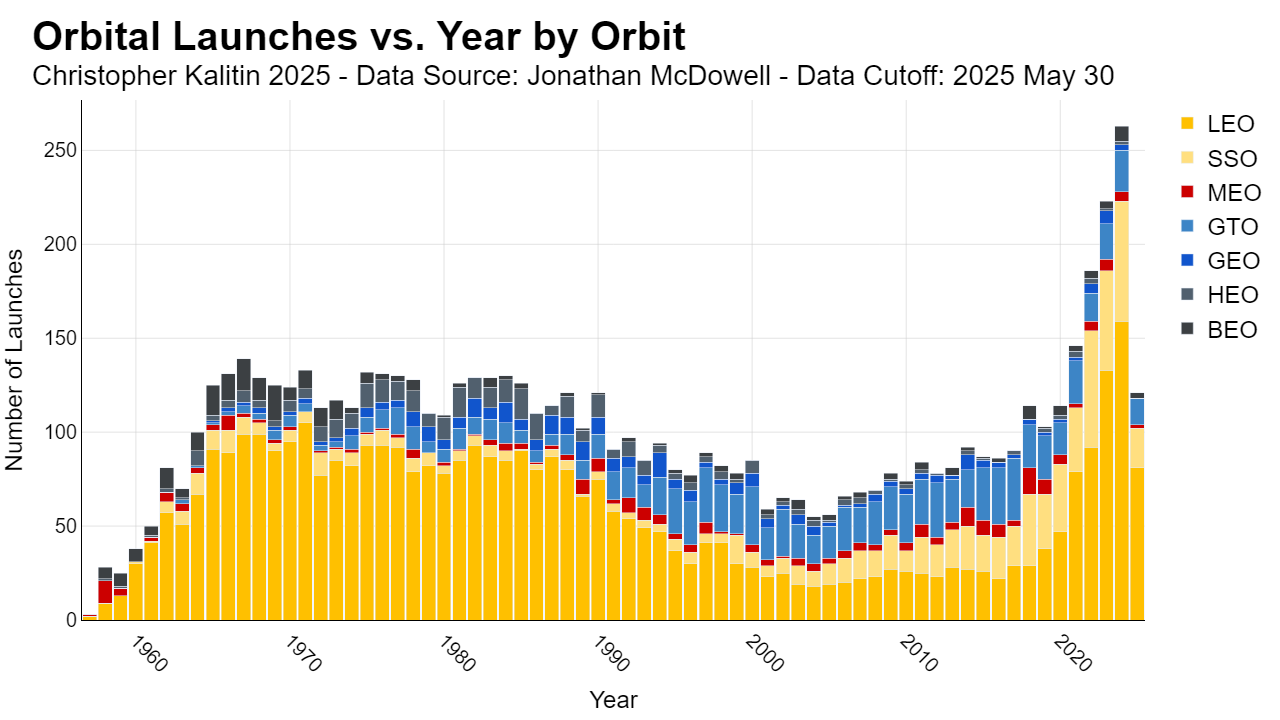
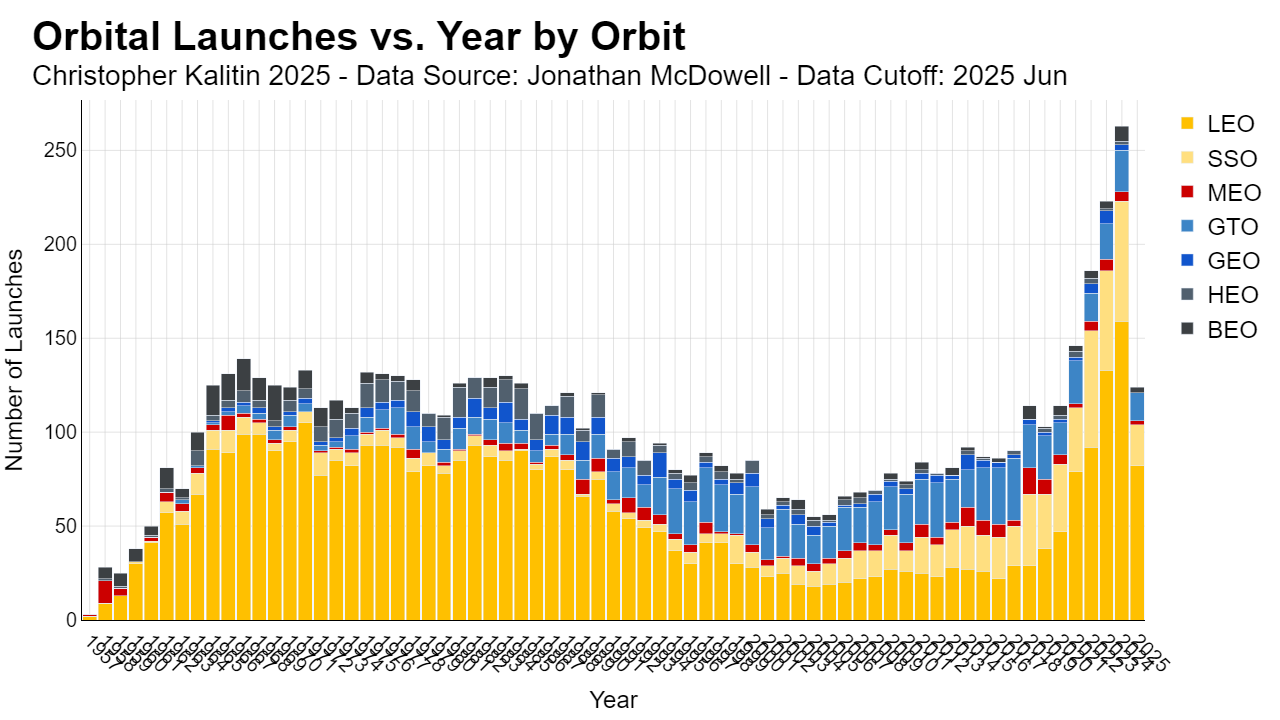
general launch payload type charts

diff --git a/src/chart_utils.py b/src/chart_utils.py
@@ -19,6 +19,16 @@ class ChartUtils:
         'BEO': '#3c4043'
     }
     
+    general_launch_payload_type_color_map = {
+        'Starlink': "#005eff",
+        'Commercial': "#fbbc04",
+        'Chinese Commercial': '#ffd966',
+        'Government': "#008F11",
+        'Eastern Government': "#2b700d",
+        'Military': "#ff0000",
+        'Eastern Military': '#cc0000'
+    }
+    
     def pivot_dataframe(df, index_col, column_col, value_col):
         """
         Index_col is used as the row index of the pivoted dataframe.
@@ -81,7 +91,7 @@ class ChartUtils:
             binned = binned.value_counts().reindex(labels)
         return binned
  
-    def bin_dataset_into_dictionary_by_filter_function(dataset, filter_function, filter_function_parameters, value_col, bins, bin_labels, keys=None, count_values=True, bin_column=None):
+    def bin_dataset_into_dictionary_by_filter_function(dataset, filter_function, filter_function_parameters_list, value_col, bins, bin_labels, keys=None, count_values=True, bin_column=None, filter_function_additional_parameter=None):
         """Filters a dataset by a given filter function and returns a dataframe for each filter function parameter.
         
         Eg. You can filter by orbit and get a dictionary of dataframes, one for each orbit.
@@ -91,7 +101,7 @@ class ChartUtils:
         Args:
             dataset (launch or satcat): Launch or Satcat dataset (notice this isn't the McDowellDataset, so use dataset.launch or dataset.satcat)
             filter_function (mda.Filters...): Filter function to be applied
-            filter_function_parameters (list): List of paramters, eg. ['LEO', 'SSO, ... , 'BEO'] for orbits or ['Falcon9', 'Electron'] for launch vehicles.
+            filter_function_parameters_list (list): List of paramters, eg. ['LEO', 'SSO, ... , 'BEO'] for orbits or ['Falcon9', 'Electron'] for launch vehicles.
             value_col (str): Column to be used for binning, eg. 'Payload_Mass'.
             bins (list int): List of bin edges, eg. [0, 1000, 2000, 3000] for payload mass bins.
             bin_labels (list str): List of bin labels, eg. ['0-1T', '1-2T', '2-3T'] for payload mass bins.
@@ -104,11 +114,14 @@ class ChartUtils:
         """
 
         if keys is None:
-            keys = filter_function_parameters
+            keys = filter_function_parameters_list
         output_dict = {}
-        for filter_function_parameter, key in zip(filter_function_parameters, keys):
+        for filter_function_parameter, key in zip(filter_function_parameters_list, keys):
             new_dataset = copy.deepcopy(dataset)  # Create a copy of the dataframe to avoid modifying the original, bad solution tbh. Deep copy is required bc dataset is part of another class (i think this is why).
-            filter_function(new_dataset, filter_function_parameter)  # Apply the filter function
+            if filter_function_additional_parameter is not None: # This is getting ugly
+                filter_function(new_dataset, filter_function_parameter, filter_function_additional_parameter)
+            else:
+                filter_function(new_dataset, filter_function_parameter)  # Apply the filter function
             output_dict[key] = ChartUtils.count_values_into_bins(new_dataset.df, value_col, bins, bin_labels, count_values, bin_column)
         return output_dict
  

diff --git a/examples/f9_launches_vs_month_by_general_launch_payload_type.py b/examples/f9_launches_vs_month_by_general_launch_payload_type.py
@@ -2,7 +2,7 @@ import mcdowell_dataset_analysis as mda
 
 # end_year is inclusive
 def main(start_year, end_year):
-    dateset_name = f"f9_launch_vs_month_by_orbit_{start_year}_{end_year}"
+    dateset_name = f"f9_launch_vs_month_by_general_launch_payload_type_{start_year}_{end_year}"
 
     # Initialize dataset
     dataset = mda.McdowellDataset("./datasets")
@@ -15,7 +15,7 @@ def main(start_year, end_year):
     # Encode launch month as year*12 + months to get total months since Jesus instead of years since Jesus
     dataset.launch.df['Launch_Month'] = dataset.launch.df['Launch_Date'].dt.year*12 + dataset.launch.df['Launch_Date'].dt.month
     
-    general_launch_payload_Types = ['LEO', 'SSO', 'MEO', 'GTO', 'GEO', 'HEO', 'BEO']
+    general_launch_payload_Types = ['Starlink', 'Commercial', 'Chinese Commercial', 'Government', 'Eastern Government', 'Military', 'Eastern Military']
     months = ['Jan', 'Feb', 'Mar', 'Apr', 'May', 'Jun', 'Jul', 'Aug', 'Sep', 'Oct', 'Nov', 'Dec']
 
     bin_labels = []
@@ -26,11 +26,12 @@ def main(start_year, end_year):
     # Create a dictionary with key orbits and values are dataframes for each orbit showing the number of launches per year
     orbit_dataframes = mda.ChartUtils.bin_dataset_into_dictionary_by_filter_function(
         dataset=dataset.launch,
-        filter_function=mda.Filters.filter_by_orbit,
-        filter_function_parameters=orbits,
+        filter_function=mda.Filters.filter_column_by_contains,
+        filter_function_parameters_list=general_launch_payload_Types,
         value_col='Launch_Month',
         bins=list(range(start_year*12, (end_year+1)*12+1)), # +1 year bc its exclusive, again +1 to align bins to months for some reason ugh pandas wtf investigate this future Chris
         bin_labels=bin_labels,
+        filter_function_additional_parameter="General_Launch_Payload_Type"
     )
 
     # Combine dictionary of dataframes into a single dataframe (by column)
@@ -43,12 +44,12 @@ def main(start_year, end_year):
 
     mda.ChartUtils.plot_bar(
         output_df,
-        title='F9 Launches vs. Month by Orbit',
+        title='F9 Launches vs Month by General Launch Payload Type',
         subtitle=f'Christopher Kalitin 2025 - Data Source: Jonathan McDowell - Data Cutoff: {dataset.date_updated}',
         x_label='Date',
         y_label='Number of Launches',
         output_path=f'examples/outputs/chart/{dateset_name}.png',
-        color_map=mda.ChartUtils.orbit_color_map,
+        color_map=mda.ChartUtils.general_launch_payload_type_color_map,
         bargap=0.0,
         x_tick0=0,
         x_tick_step_size=12

diff --git a/examples/orbital_launches_vs_year_by_general_launch_payload_type.py b/examples/orbital_launches_vs_year_by_general_launch_payload_type.py
@@ -1,7 +1,7 @@
 import mcdowell_dataset_analysis as mda
 
 def main(start_year):
-    dateset_name = f"orbital_launches_vs_year_by_orbit_{start_year}"
+    dateset_name = f"orbital_launches_vs_year_by_general_launch_payload_type_{start_year}"
 
     # Initialize dataset
     dataset = mda.McdowellDataset("./datasets")
@@ -13,16 +13,17 @@ def main(start_year):
     # Add launch year column for easier binning
     dataset.launch.df['Launch_Year'] = dataset.launch.df['Launch_Date'].dt.year
 
-    orbits = ['LEO', 'SSO', 'MEO', 'GTO', 'GEO', 'HEO', 'BEO']
+    general_launch_payload_types = ['Starlink', 'Commercial', 'Chinese Commercial', 'Government', 'Eastern Government', 'Military', 'Eastern Military']
 
     # Create a dictionary with key orbits and values are dataframes for each orbit showing the number of launches per year
     orbit_dataframes = mda.ChartUtils.bin_dataset_into_dictionary_by_filter_function(
         dataset=dataset.launch,
-        filter_function=mda.Filters.filter_by_orbit,
-        filter_function_parameters_list=orbits,
+        filter_function=mda.Filters.filter_column_by_contains,
+        filter_function_parameters_list=general_launch_payload_types,
         value_col='Launch_Year',
         bins=list(range(start_year-1, 2026)), # -1 because it's weird
         bin_labels=list(range(start_year, 2026)),
+        filter_function_additional_parameter="General_Launch_Payload_Type",
     )
 
     # Combine dictionary of dataframes into a single dataframe (by column)
@@ -35,13 +36,14 @@ def main(start_year):
 
     mda.ChartUtils.plot_bar(
         output_df,
-        title='Orbital Launches vs. Year by Orbit',
+        title='Orbital Launches vs Year by General Launch Payload Type',
         subtitle=f'Christopher Kalitin 2025 - Data Source: Jonathan McDowell - Data Cutoff: {dataset.date_updated}',
         x_label='Year',
         y_label='Number of Launches',
         output_path=f'examples/outputs/chart/{dateset_name}.png',
-        color_map=mda.ChartUtils.orbit_color_map,
+        color_map=mda.ChartUtils.general_launch_payload_type_color_map,
         bargap=0.1,
+        x_tick_step_size=5,
     )
     
 main(2000)

diff --git a/src/dataframe_filters.py b/src/dataframe_filters.py
@@ -10,6 +10,24 @@ class Filters:
     def __init__(self):
         pass
 
+    def filter_column_by_contains(dataset_class, contains_pattern, column, case=False, negate=False):
+        """
+        Filter a DataFrame by a column containing a specific pattern.
+        This is more general if no other filter suits your needs.
+        Args:
+            dataset_class: The dataset class to filter.
+            column: The column to filter by.
+            contains_pattern: The pattern to filter by.
+            case: Whether the filter should be case-sensitive. Defaults to False.
+            negate: If True, negate the condition (i.e., keep rows that do not contain the pattern). Defaults to False.
+        """
+        
+        condition = dataset_class.df[column].str.contains(contains_pattern, case=case, na=False)
+        if negate:
+            condition = ~condition
+            
+        dataset_class.df = dataset_class.df[condition]
+
     def filter_by_mission(dataset_class, pattern, column="Mission", case=False, negate=False):
         """
         Filter by regex pattern in a specified column (e.g., 'Starlink' in Mission).

diff --git a/src/custom_launch_types.py b/src/custom_launch_types.py
@@ -26,9 +26,6 @@ def add_general_launch_payload_type(launch_dataframe):
     
     launch_dataframe['General_Launch_Payload_Type'] = 'Other'
     
-    # Starlink
-    launch_dataframe.loc[launch_dataframe['Mission'].str.contains('Starlink', case=False, na=False), 'General_Launch_Payload_Type'] = 'Starlink'
-    
     # Commercial
     commercial_mask = (launch_dataframe['Group'].str.startswith('C')) & (~launch_dataframe['State'].isin(['CN']))
     launch_dataframe.loc[commercial_mask, 'General_Launch_Payload_Type'] = 'Commercial'
@@ -61,5 +58,8 @@ def add_general_launch_payload_type(launch_dataframe):
     # Eastern Military
     eastern_military_mask = military_mask & launch_dataframe['State'].isin(['CN', 'RU'])
     launch_dataframe.loc[eastern_military_mask, 'General_Launch_Payload_Type'] = 'Eastern Military'
+    
+    # Starlink
+    launch_dataframe.loc[launch_dataframe['Mission'].str.contains('Starlink', case=False, na=False), 'General_Launch_Payload_Type'] = 'Starlink'
     
     return launch_dataframe

diff --git a/examples/f9_launches_vs_month_by_orbit.py b/examples/f9_launches_vs_month_by_orbit.py
@@ -26,7 +26,7 @@ def main(start_year, end_year):
     orbit_dataframes = mda.ChartUtils.bin_dataset_into_dictionary_by_filter_function(
         dataset=dataset.launch,
         filter_function=mda.Filters.filter_by_orbit,
-        filter_function_parameters=orbits,
+        filter_function_parameters_list=orbits,
         value_col='Launch_Month',
         bins=list(range(start_year*12, (end_year+1)*12+1)), # +1 year bc its exclusive, again +1 to align bins to months for some reason ugh pandas wtf investigate this future Chris
         bin_labels=bin_labels,

diff --git a/examples/f9_total_mass_vs_mass_by_orbit.py b/examples/f9_total_mass_vs_mass_by_orbit.py
@@ -18,7 +18,7 @@ mass_labels = [f"{int(bins[i]/1000)}-{int(bins[i+1]/1000)}t" for i in range(len(
 orbit_dataframes = mda.ChartUtils.bin_dataset_into_dictionary_by_filter_function(
     dataset=dataset.launch,
     filter_function=mda.Filters.filter_by_orbit,
-    filter_function_parameters=orbits,
+    filter_function_parameters_list=orbits,
     value_col='Payload_Mass',
     bins=bins,
     bin_labels=mass_labels,

diff --git a/examples/f9_launches_vs_mass_by_orbit.py b/examples/f9_launches_vs_mass_by_orbit.py
@@ -18,7 +18,7 @@ mass_labels = [f"{int(bins[i]/1000)}-{int(bins[i+1]/1000)}t" for i in range(len(
 orbit_dataframes = mda.ChartUtils.bin_dataset_into_dictionary_by_filter_function(
     dataset=dataset.launch,
     filter_function=mda.Filters.filter_by_orbit,
-    filter_function_parameters=orbits,
+    filter_function_parameters_list=orbits,
     value_col='Payload_Mass',
     bins=bins,
     bin_labels=mass_labels
